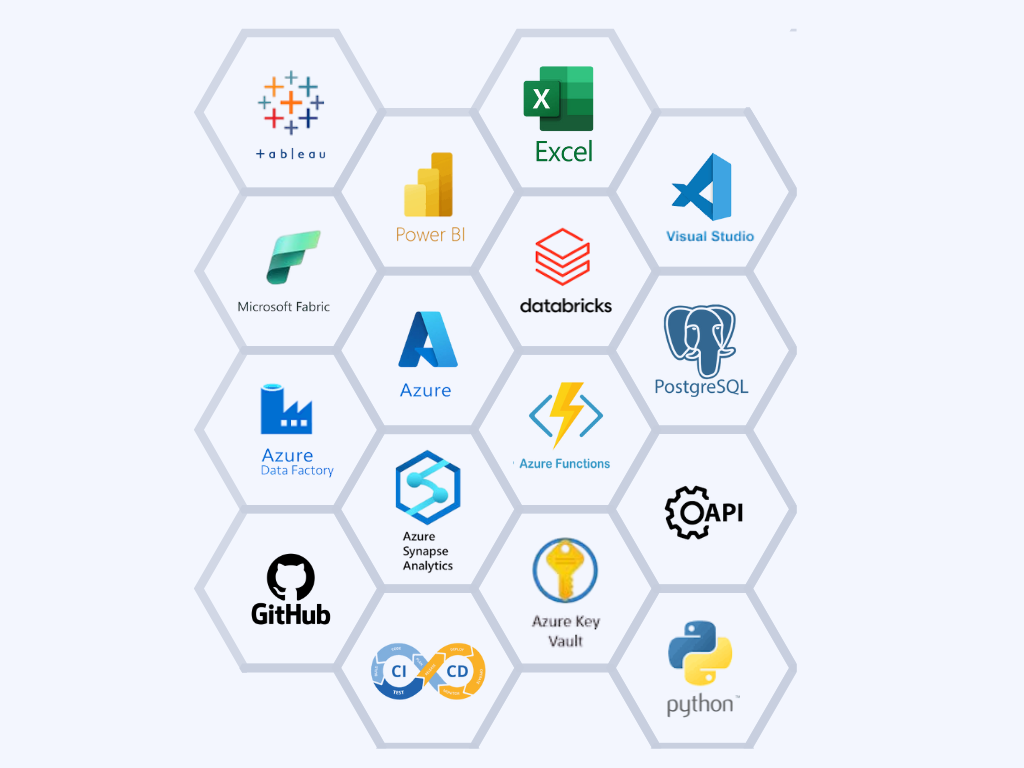
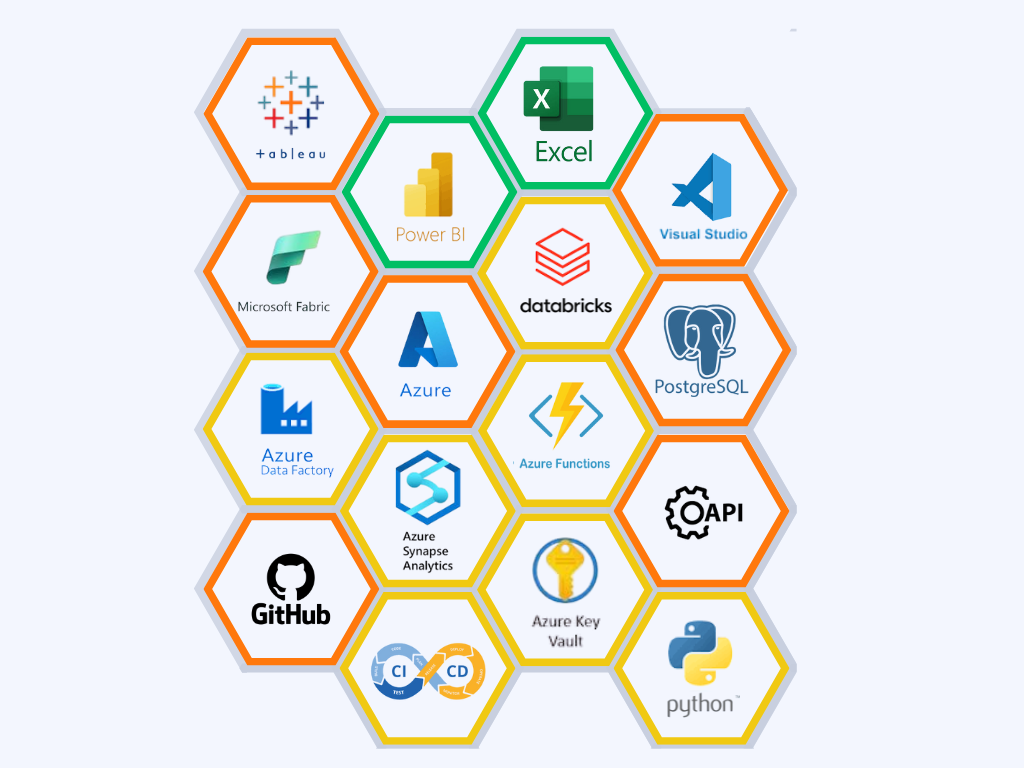
various updates (#20)

diff --git a/site/collections/_pages/tools-and-stack.html b/site/collections/_pages/tools-and-stack.html
@@ -1,18 +1,23 @@
 ---
-title: Tools & Stock
+title: Tools & Stack
 content_blocks:
   - _bookshop_name: page-heading
-    title: Tools & Stock
+    title: Tools & Stack
     description:
  
   - _bookshop_name: content
     content_html: >-
-      <p>Below is a snapshot of the tools and technologies I’ve used across the projects on this site.</p>
-      <p>Rather than learning tools in isolation, I’ve focused on applying them in realistic, end-to-end data workflows — from ingestion and transformation, through to modelling, automation, and visualisation. Each of these appears in at least one portfolio project and links back to practical work, not just theory.</p>
-      <img src="/images/tools-and-stack.png" alt="Tools and Stack">
+      <p>Across my posts, projects, and CV, I’ve mentioned the tools and stack I’ve worked with both in previous roles and while building this portfolio.</p>
 
-      
-      
+      <p>To make it easier to see the whole picture, here’s a single snapshot that pulls them together.</p>
+
+      <p>I’ve also color-coded each tool so you can quickly see my experience level:</p>
+
+      <ul>
+        <li>Green: Extensive hands-on experience</li>
+        <li>Orange: Managerial or moderate hands-on experience</li>
+        <li>Yellow: New as part of portfolio</li>
+      </ul>
+
+      <img src="/images/tools-and-stack.png" alt="Tools and Stack">   
 ---
-
-

diff --git a/site/collections/_projects/2025-12-19-data-engineering.md b/site/collections/_projects/2025-12-19-data-engineering.md
@@ -6,129 +6,130 @@ image: '/images/data-engineering-project.svg'
 hide_image: true
 ---
 
-## Project background
+## Project Overview
 
-This project demonstrates the design and implementation of a **production-style, end-to-end data engineering pipeline** using Microsoft Azure services. The objective was to ingest data from an on-premises SQL Server, apply scalable transformations using modern data engineering patterns, and deliver analytics-ready data to business users through Power BI.
+When I decided on my first portfolio project — the [UK data job market insights](https://www.graemeboulton.com/project/job-insights-project-copy) — one of its main purposes was to better understand where demand and value existed in the market, and to use those insights to help guide my own upskilling.
 
-The project mirrors real-world enterprise data platforms, focusing on automation, security, and analytics enablement rather than isolated tooling..
+From a data engineering perspective, **Azure** appeared very dominant in the UK market, with services such as **Databricks** and **Synapse** mentioned consistently. From a BI perspective, **Tableau** emerged as the second most commonly requested tool. Based on this, I decided to incorporate all three into this project.
+
+I was also keen to work with a different type of data source, so for this project I chose an **on-premises SQL Server** and used the [AdventureWorks sample database](https://learn.microsoft.com/en-us/sql/samples/adventureworks-install-configure?view=sql-server-ver17&tabs=ssms). In terms of transformations, I wanted to follow an industry-standard **Bronze → Silver → Gold** pattern to reflect how modern data platforms are typically structured in production environments.
 
 ---
 
-## Infrastructure & Architecture
+## Architecture
 
 ![Jobs Pipeline](/images/data-engineering-pipeline.svg)
 
 ---
 
-## Solution Overview
+## Technical Stack
 
-To address these requirements, a cloud-based data platform was built on Azure with the following objectives:
+- Azure Data Factory
+- Azure Data Lake Storage Gen2
+- Azure Databricks
+- Azure Synapse Analytics
+- Azure Key Vault
+- Microsoft Entra ID
+- Tableau
 
-- Securely ingest data from an on-premises SQL Server
-- Apply structured transformations using a medallion architecture
-- Serve analytics-ready data via SQL
-- Enable interactive business reporting
-- Automate and govern the entire pipeline
+## Implementation Overview
 
----
+### Data Ingestion
 
-## Architecture & Pipeline Flow
+Data ingestion was handled using **Azure Data Factory** to securely extract data from an **on-premises SQL Server** environment and land it in Azure in a scalable, repeatable way.
 
-### 1. Data Ingestion (Bronze Layer)
+Because the source database was hosted locally, a **Self-Hosted Integration Runtime (SHIR)** was installed and configured on the machine running SQL Server. This allowed Azure Data Factory to communicate securely with the on-prem environment without exposing the database publicly.
 
-- Azure Data Factory connects to the on-premises SQL Server using a **self-hosted integration runtime**
-- Table metadata is dynamically retrieved to avoid hardcoding
-- Source tables are extracted and stored as **Parquet files** in the Bronze layer of Azure Data Lake Storage
+Rather than hard-coding individual tables, the ingestion pipeline was designed to be **fully dynamic**:
 
-This approach allows the pipeline to automatically adapt to schema or table changes.
+- A **Lookup activity** queries SQL Server system tables to discover all tables within the `SalesLT` schema
+- The results are returned as JSON and passed into a **ForEach activity**
+- Each table is extracted using a dynamically generated `SELECT * FROM schema.table` statement
 
----
+This approach ensures the pipeline automatically adapts if tables are added or removed, without requiring code changes.
 
-### 2. Data Transformation – Silver Layer
+All extracted data is written to **Azure Data Lake Storage Gen2** in **Parquet format**, organised into a Bronze layer using a structured folder layout:
 
-- Azure Databricks notebooks perform initial cleansing and standardisation
-- Data types are normalised and schemas aligned
-- Outputs are written in **Delta format**, enabling:
-  - Schema evolution
-  - Version tracking
-  - Reliable overwrite and append operations
-
-The Silver layer represents clean, standardised source data.
+```
+bronze/{schema}/{table}/{table}.parquet
+```
 
 ---
 
-### 3. Data Transformation – Gold Layer
+### Data Transformation
 
-- Business-level transformations are applied
-- Tables are reshaped into analytics-friendly structures
-- Column names are standardised (e.g. `UPPER_SNAKE_CASE`)
-- Outputs follow **fact and dimension-style patterns**
+Data transformation was implemented using **Azure Databricks** and follows a clear **Bronze → Silver → Gold** pattern to separate raw data from curated and business-ready datasets.
 
-The Gold layer acts as the single source of truth for analytics and reporting.
+#### Bronze → Silver
 
----
+The Silver layer focuses on **data cleanliness and consistency**. Databricks notebooks read the raw Parquet files from the Bronze layer and the following transformations were applied:
 
-### 4. Orchestration & Automation
+- Standardising data types (e.g. converting timestamps to dates where appropriate)
+- Cleaning and normalising columns
+- Removing technical inconsistencies from the source system
+- Ensuring schemas are consistent across tables
 
-- Azure Data Factory orchestrates the full pipeline end-to-end
-- Databricks notebooks are triggered directly from ADF
-- Pipelines are scheduled to run automatically on a daily basis
-- Monitoring and debugging are handled through Azure-native tooling
+The cleaned data is written to the Silver layer using **Delta Lake**, which adds transaction support, schema enforcement, and version history on top of Parquet.
 
----
+#### Silver → Gold
 
-### 5. Data Serving with Synapse Serverless SQL
+The Gold layer represents **analytics-ready business data**. At this stage, the focus shifts from cleaning to modelling:
 
-- Azure Synapse Serverless SQL queries data directly from the Gold layer
-- SQL views are created over Delta tables using `OPENROWSET`
-- No data is duplicated or copied into a traditional warehouse
+- Joining related tables into meaningful datasets
+- Applying business logic and calculations
+- Renaming columns into consistent, human-readable formats
+- Producing fact and dimension-style outputs optimised for BI tools
 
-This approach provides SQL accessibility with minimal infrastructure cost.
+Delta Lake continues to be used at this layer, enabling reliable overwrites, easy debugging via version history, and resilience to schema evolution.
 
 ---
 
-### 6. Reporting & Analytics
+### Orchestration
 
-- Power BI connects to Synapse Serverless SQL
-- SQL views are imported into the Power BI data model
-- Relationships are defined between fact and dimension tables
-- Interactive dashboards provide insights into:
-  - Total sales
-  - Product performance
-  - Customer demographics
-  - Gender-based purchasing patterns
+End-to-end orchestration is handled by **Azure Data Factory**, which coordinates ingestion, transformation, and downstream processing.
+
+The pipeline flow is:
+
+1. Extract data from on-prem SQL into the Bronze layer  
+2. Trigger Databricks notebooks to transform Bronze → Silver  
+3. Trigger Databricks notebooks to transform Silver → Gold  
+
+Databricks notebooks are integrated into Data Factory using **linked services**, with sensitive access tokens stored securely in **Azure Key Vault**.
+
+A **daily schedule trigger** ensures the entire pipeline runs automatically, keeping analytics data up to date without manual intervention.
+
+Operational visibility is provided through:
+
+- Pipeline run monitoring
+- Activity-level success and failure tracking
+- The ability to **rerun failed steps** without reprocessing the entire pipeline
+
+This orchestration design closely mirrors how production data pipelines are built and operated in real-world Azure environments.
+
+---
+
+## Serving & Reporting
+
+The curated Gold datasets are exposed via **Azure Synapse Analytics (Serverless SQL)** and consumed directly by **Tableau**.
+
+Using a serverless SQL layer allows Tableau to query the data lake without duplicating data, while still providing a familiar relational interface for analytics and visualisation.
+
+Note: Dashboards are currently in progress
 
 ---
 
 ## Security & Governance
 
-- Secrets (database credentials, access tokens) are stored in **Azure Key Vault**
-- Managed identities are used instead of hard-coded credentials
-- Access is controlled using **Microsoft Entra ID security groups**
-- Role-based access control (RBAC) is applied at the resource group level
-
-This setup reflects enterprise-grade security and governance practices.
+- Managed identities used across Azure services
+- Secrets stored securely in Azure Key Vault
+- RBAC enforced via Microsoft Entra ID
+- Security groups used to manage access at scale
 
 ---
 
 ## Outcome
 
-The final solution delivers a **fully automated, scalable, and secure data platform** that transforms raw operational data into actionable business insights.
-
-This project demonstrates hands-on experience with:
-- Cloud data ingestion
-- Distributed data processing
-- Data modelling for analytics
-- Pipeline orchestration
-- Security and governance
-- Business-facing reporting
-
----
-
-## Future Enhancements
-
-- Implement incremental loads or change data capture (CDC)
-- Add data quality validation checks
-- Introduce CI/CD for pipeline deployment
-- Integrate monitoring and alerting
-- Extend the model to support additional data sources
+- Fully automated end-to-end data pipeline
+- Analytics-ready data model optimised for Tableau
+- Daily refreshed dashboards without manual intervention
+- Scalable, production-aligned Azure architecture
